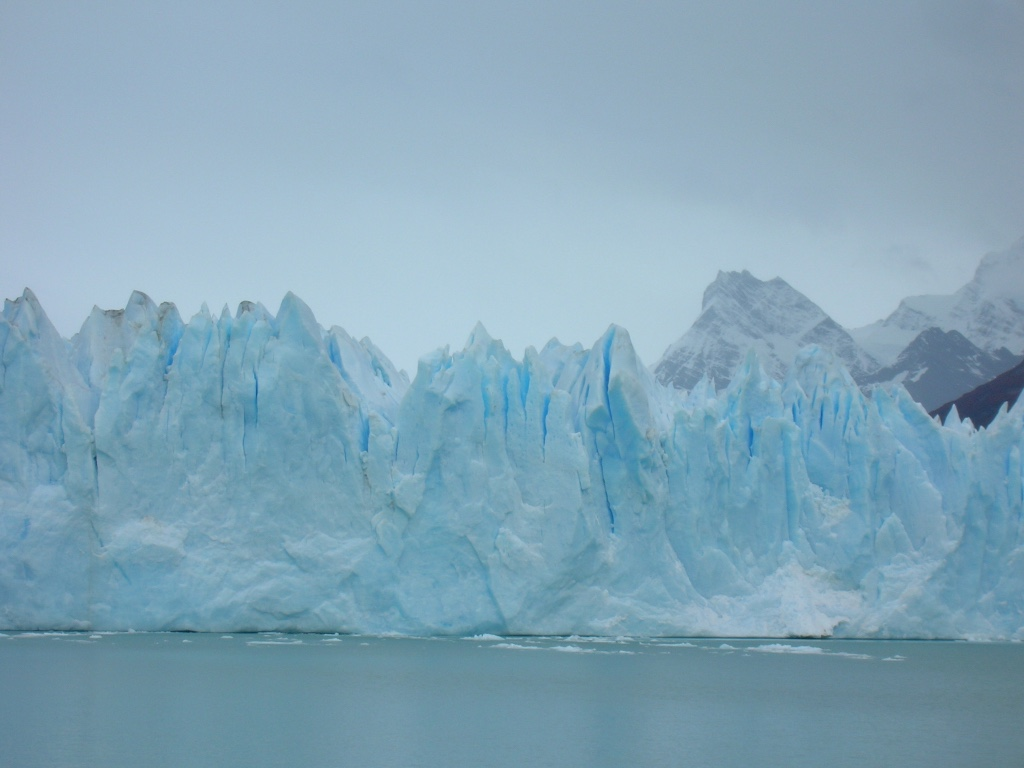
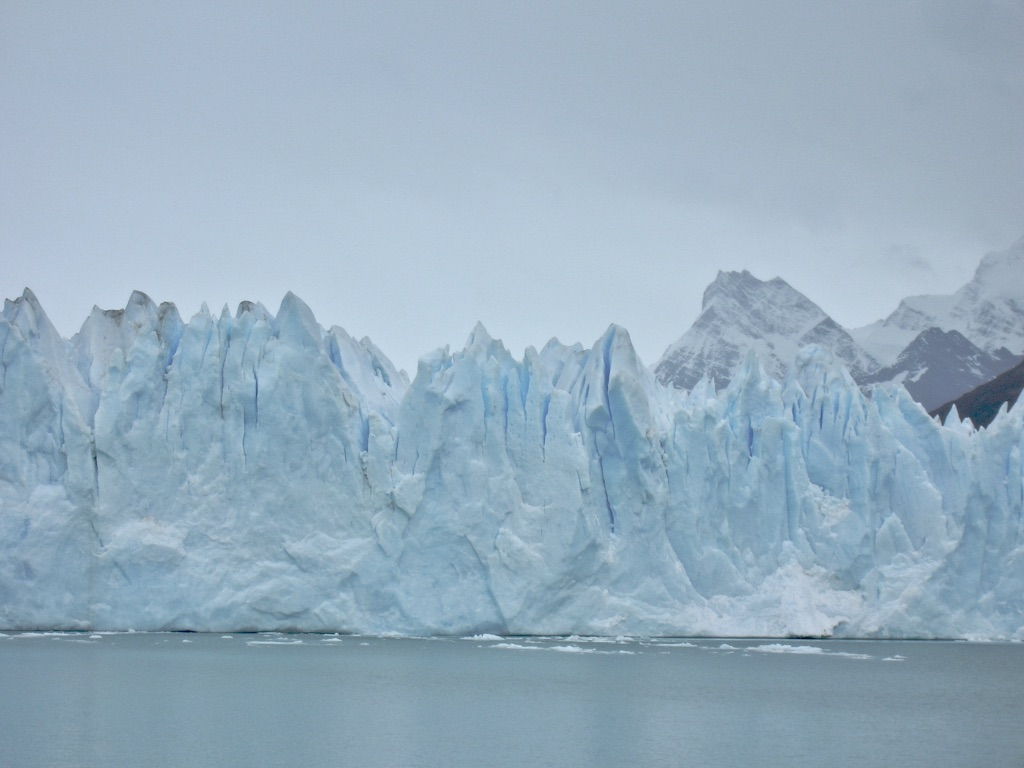
updated background image and footer

Changed region(s): [[0.0, 0.4062, 1.0, 1.0], [0.9375, 0.4062, 1.0, 0.5]]

diff --git a/style.css b/style.css
@@ -22,7 +22,6 @@
 	color: rgb(230,230,230);
 	margin-left: 24px;
 	font-family: 'Montserrat', sans-serif;
-
 }
 #icon-cg:hover{
 color: #F07A80;
@@ -165,7 +164,7 @@ font-family: 'Montserrat', sans-serif;
 }
 #headshot{
 	border-radius: 4px;
-	margin-top: -30px;
+	margin-top: -4px;
 }
 .skills-header-front{
 	color: rgb(30,30,30);
@@ -426,42 +425,7 @@ p{
 .icon-container-waste{
 	margin-top: 40px;
 }
-@media (max-width: 992px){
-	#main-header{
-		font-size: 80px;
-	}
-	#headshot{
-		height: 170px;
-		margin-top: 0px;
-	}
-	#about_text{
-		font-size: 20px;
-	}
-	.skill-icon{
-		width: 40px;
-	}
-	#django{
-		width: 55px;
-	}
-	#html1{
-		width: 44px;
-	}
-	.skills-header-front, .skills-header-back{
-		font-size: 22px;
-	}
-	.skill-name{
-		font-size: 12px;
-	}
-	li{
-		font-size: 20px;
-	}
-	p{
-		font-size: 20px;
-	}
-	.project-image-link{
-		margin-bottom: 0px;
-	}
-}
+
 
 .exp_header{
 	color: rgb(50,50,50);
@@ -548,16 +512,68 @@ p{
 .page-footer{
 	background-color: rgb(180,180,180) !important;
 }
-.footer{
-	font-size: 14px;
-	height: 20px;
-	text-align: center;
-	font-family: 'Prosto One', cursive;
-	color: rgb(25,25,25);
-}
 body{
 	background-color: rgb(180,180,180) !important;
 }
+
+body {
+   margin:0;
+   padding:0;
+   height:100%;
+}
+#container {
+   min-height:100%;
+   position:relative;
+}
+
+#body {
+   padding-bottom:50px;   /* Height of the footer */
+}
+
+/*footer*/
+
+footer {
+   	width:100%;
+   	height:50px;  
+	position:absolute;
+	text-transform: uppercase;
+	padding: 4px 16px;
+	background-color: rgb(35, 40, 34);
+	font-size: 14px;
+	letter-spacing: .09em;
+	font-weight: 900;
+}
+.clearfix:after {
+	visibility: hidden;
+	display: block;
+	content: " ";
+	clear: both;
+	height: 0;
+	font-size: 0;
+}
+.clearfix:after {
+	visibility: hidden;
+	display: block;
+	content: " ";
+	clear: both;
+	height: 0;
+	font-size: 0;
+}
+.copyright {
+	font-family: 'Montserrat', sans-serif;
+	float: left;
+	color: white;
+}
+.message {
+	font-family: 'Montserrat', sans-serif;
+	float: right;
+	color: white;
+}
+.name {
+	color: #F15B31;
+	font-weight: 1000;
+}
+
 .resume{
 	height: 100% !important;
 	width: auto;
@@ -570,4 +586,40 @@ hr{
     position: relative;
     overflow: hidden;
     height: 630px !important;
+}
+@media (max-width: 992px){
+	#main-header{
+		font-size: 80px;
+	}
+	#headshot{
+		height: 170px;
+		margin-top: 0px;
+	}
+	#about_text{
+		font-size: 20px;
+	}
+	.skill-icon{
+		width: 40px;
+	}
+	#django{
+		width: 55px;
+	}
+	#html1{
+		width: 44px;
+	}
+	.skills-header-front, .skills-header-back{
+		font-size: 22px;
+	}
+	.skill-name{
+		font-size: 12px;
+	}
+	li{
+		font-size: 20px;
+	}
+	p{
+		font-size: 20px;
+	}
+	.project-image-link{
+		margin-bottom: 0px;
+	}
 }

diff --git a/index.html b/index.html
@@ -10,7 +10,7 @@
   <link href="https://fonts.googleapis.com/icon?family=Material+Icons" rel="stylesheet">
 
 </head>
-<body>
+<body id="body">
   
   <div class="navbar-fixed" id="navbar">
   	<nav>
@@ -87,10 +87,10 @@
           </div>
         </div>
     		<div class="row">
-    				<div class="col l8 s12">
+    				<div class="col l8 s8">
     					<p id="about_text">I'm a full-stack web developer with experience untangling problems and developing efficient systems and tools for programs and teams in the private and non-profit sectors. Working with diverse teams of developers and UX designers, I’ve applied my experience with front and back-end technologies to build responsive websites and projects that provide a seamless interaction for users. In addition to my firm grasp of Git collaboration, RESTful APIs, and technologies from React and JavaScript to PostgreSQL and Node.js, I have significant experience managing programs, teams, budgets and business development processes for public-facing organizations. When I'm not writing code, find me on my bike or in the Cascades.</p>
     				</div>
-    				<div class="col l4 s8 offset-s4">
+    				<div class="col l4 s4">
     					<img  class="responsive-img z-depth-3" id="headshot" src="images/BW-Colin.jpg">
     				</div>
     		</div>
@@ -431,16 +431,10 @@
  	<script src="https://cdnjs.cloudflare.com/ajax/libs/materialize/0.100.2/js/materialize.min.js"></script>
  	<script src="script.js"></script>
 
-<footer class="page-footer">
-  <div class="container">
-    <div class="row">
-      <div class="col s12">
-        <h5 class="footer">colin groark 2018</h5>
-      </div>
-    </div>
-  </div>
-</footer>
-
 </body>
+<footer class="clearfix" id="footer">
+  <p class="copyright">Copyright 2018</p>
+  <p class="message">Created by <a href="https://cgroark.github.io/groark_portfolio/" target="blank"><span class="name">Colin Groark</span></a><p>
+</footer>
 
 </html>
